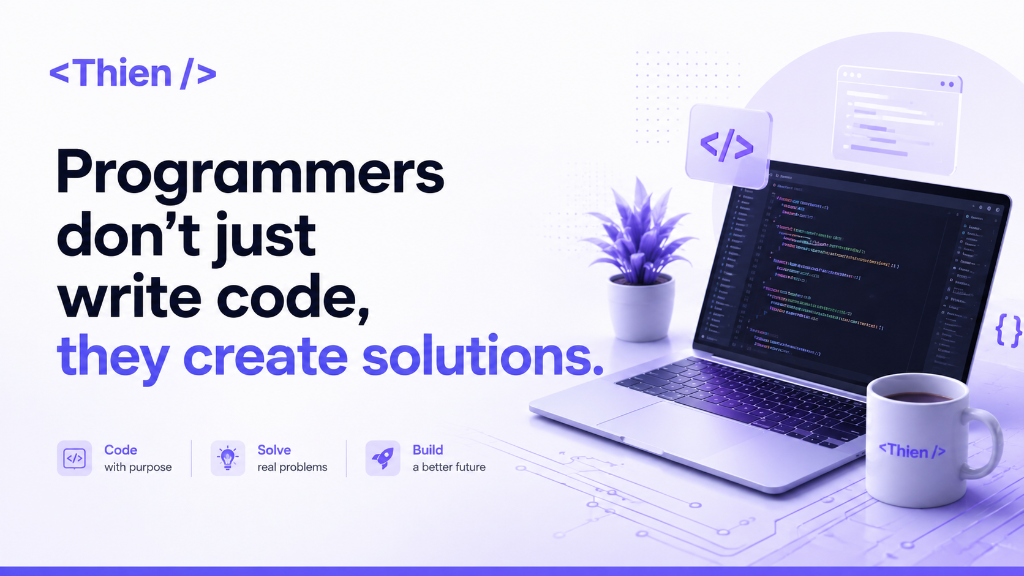
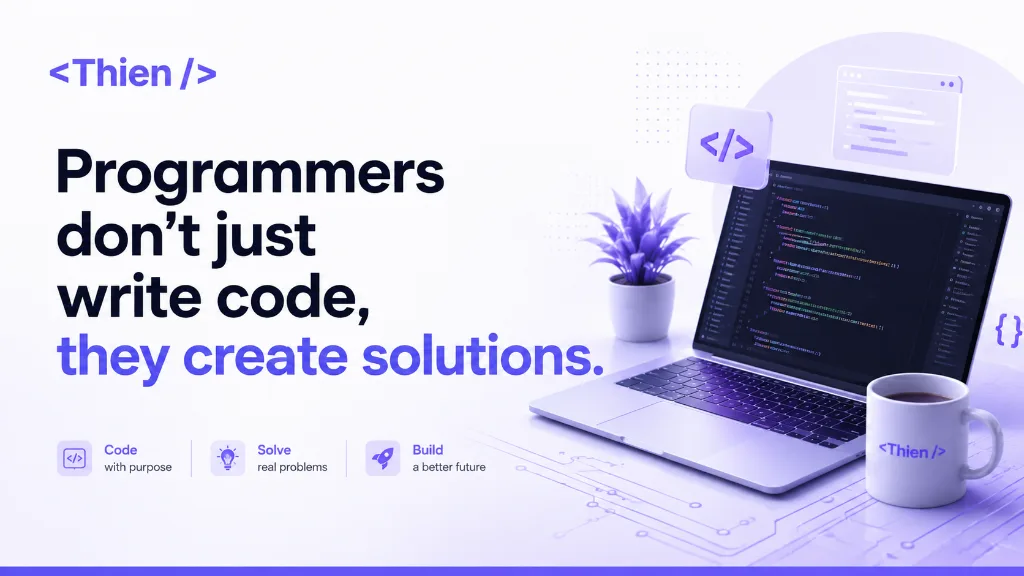
perf: compress og-image to real 45KB webp and restore project thumbnails with lazy loading

diff --git a/resources/views/projects/index.blade.php b/resources/views/projects/index.blade.php
@@ -85,9 +85,7 @@
                     @if($project->image)
                         <img src="{{ asset('storage/' . $project->image) }}" alt="{{ $project->title }}" loading="lazy" decoding="async">
                     @else
-                        <div class="project-image-placeholder">
-                            <i class="fas fa-laptop-code"></i>
-                        </div>
+                        <img src="{{ asset('images/og-image.webp') }}" alt="{{ $project->title }} - Thumbnail" loading="lazy" decoding="async">
                     @endif
                     @if($project->featured)
                         <span class="project-featured-badge">⭐ {{ __('Featured') }}</span>

diff --git a/resources/views/welcome.blade.php b/resources/views/welcome.blade.php
@@ -553,9 +553,7 @@
                     @if($project->image)
                         <img src="{{ asset('storage/' . $project->image) }}" alt="{{ $project->title }}" loading="lazy" decoding="async">
                     @else
-                        <div class="project-image-placeholder">
-                            <i class="fas fa-laptop-code"></i>
-                        </div>
+                        <img src="{{ asset('images/og-image.webp') }}" alt="{{ $project->title }} - Thumbnail" loading="lazy" decoding="async">
                     @endif
                 </div>
                 <div class="project-body">

diff --git a/resources/views/projects/show.blade.php b/resources/views/projects/show.blade.php
@@ -105,9 +105,7 @@
                     @if($project->image)
                         <img src="{{ asset('storage/' . $project->image) }}" alt="{{ $project->title }}" loading="lazy" decoding="async">
                     @else
-                        <div class="project-image-placeholder" style="min-height: 320px;">
-                            <i class="fas fa-laptop-code"></i>
-                        </div>
+                        <img src="{{ asset('images/og-image.webp') }}" alt="{{ $project->title }} - Thumbnail" loading="lazy" decoding="async">
                     @endif
                 </div>
 
